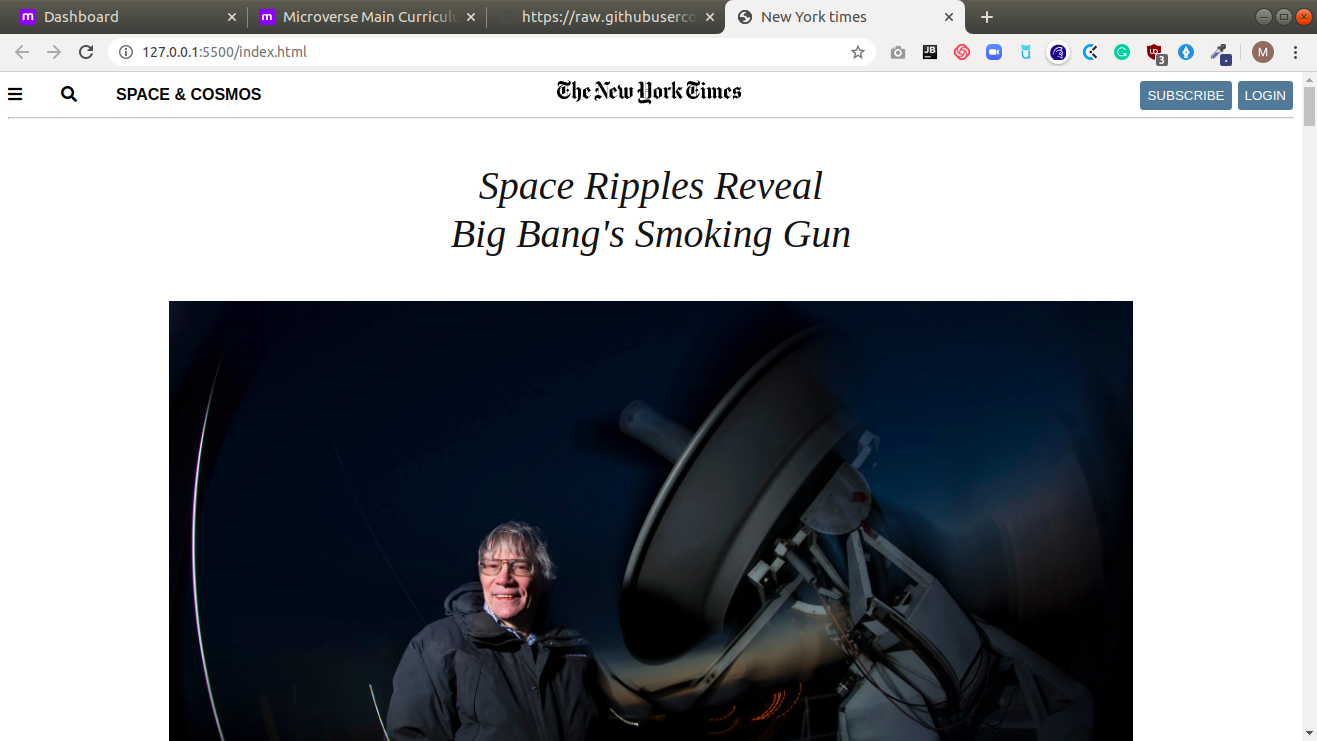
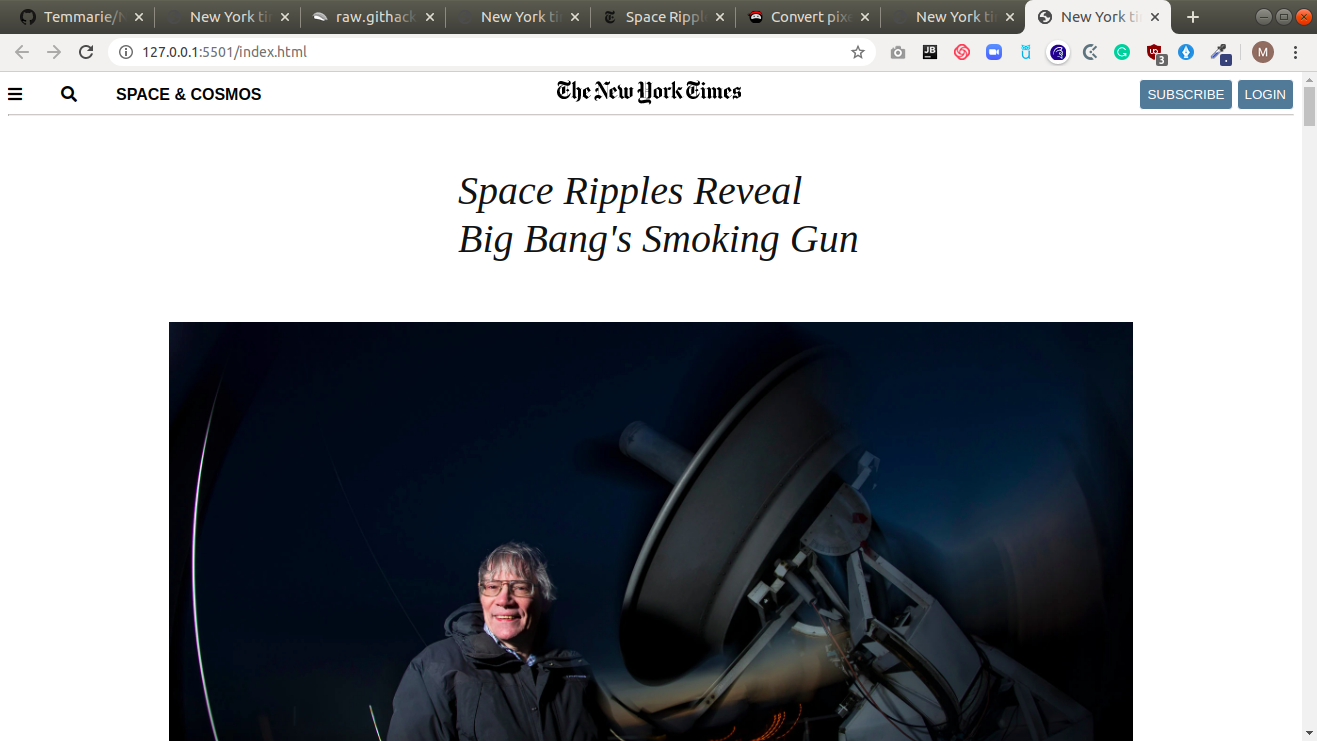
margin size fixes in the editor's picks section
- margin size fixes in the editor's picks section
- readme screenshot update

diff --git a/index.css b/index.css
@@ -67,7 +67,8 @@ main {
 
 h2.space-ripples {
   display: inline-block;
-  padding-left: 450px;
+  padding-left: 28.125rem;
+  text-align: start;
 }
 
 .space-ripples {
@@ -709,7 +710,7 @@ h2.space-ripples {
   vertical-align: top;
   margin-left: 0;
   padding-bottom: 100px;
-  padding-right: 10px;
+  padding-right: 0.625rem;
   height: 130px;
   width: 18.75%;
 }
@@ -718,7 +719,6 @@ h2.space-ripples {
   margin-left: 0;
   vertical-align: top;
   margin-top: 85px;
-  padding-right: 10px;
   height: 130px;
   width: 18.75%;
   margin-bottom: 30px;
@@ -727,10 +727,10 @@ h2.space-ripples {
 .suggested-5 {
   display: inline-block;
   vertical-align: top;
-  margin-left: 17.5rem;
+  margin-left: 17rem;
   margin-top: -10rem;
   padding-bottom: 100px;
-  padding-right: 10px;
+  padding-right: 0.625rem;
   height: 130px;
   width: 18.75%;
   margin-bottom: 30px;
@@ -742,7 +742,7 @@ h2.space-ripples {
   margin-left: 0;
   margin-top: -160px;
   padding-bottom: 100px;
-  padding-right: 10px;
+  padding-right: 0.625rem;
   height: 130px;
   width: 18.75%;
   margin-bottom: 30px;
@@ -750,6 +750,8 @@ h2.space-ripples {
 
 .most-popular-line {
   margin-bottom: 69px;
+  margin-top: -19px;
+  padding-bottom: -10px;
 }
 
 .most-popular-container {
